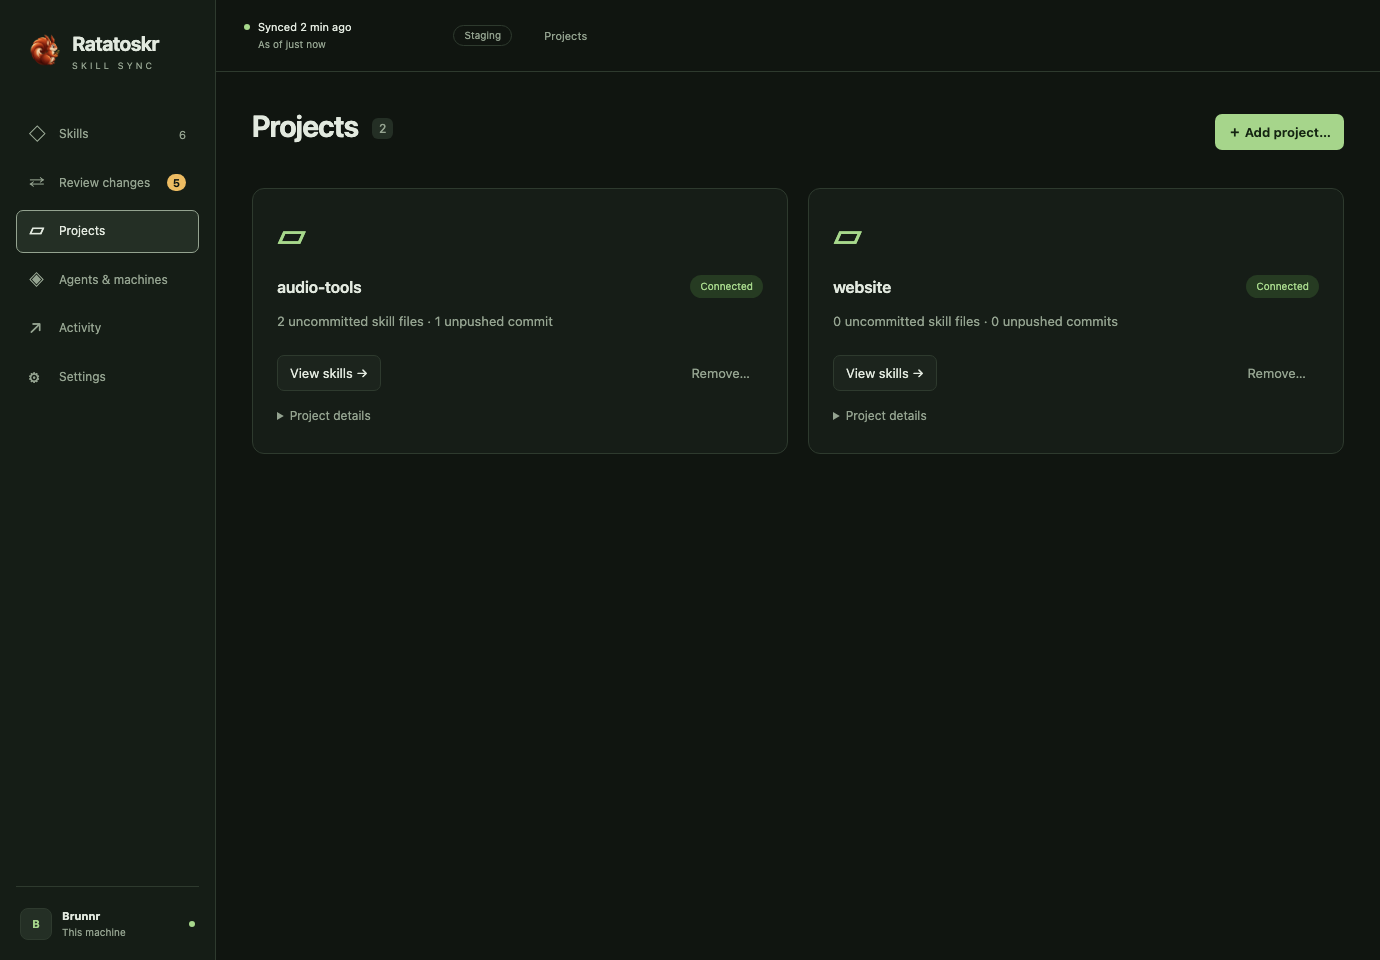
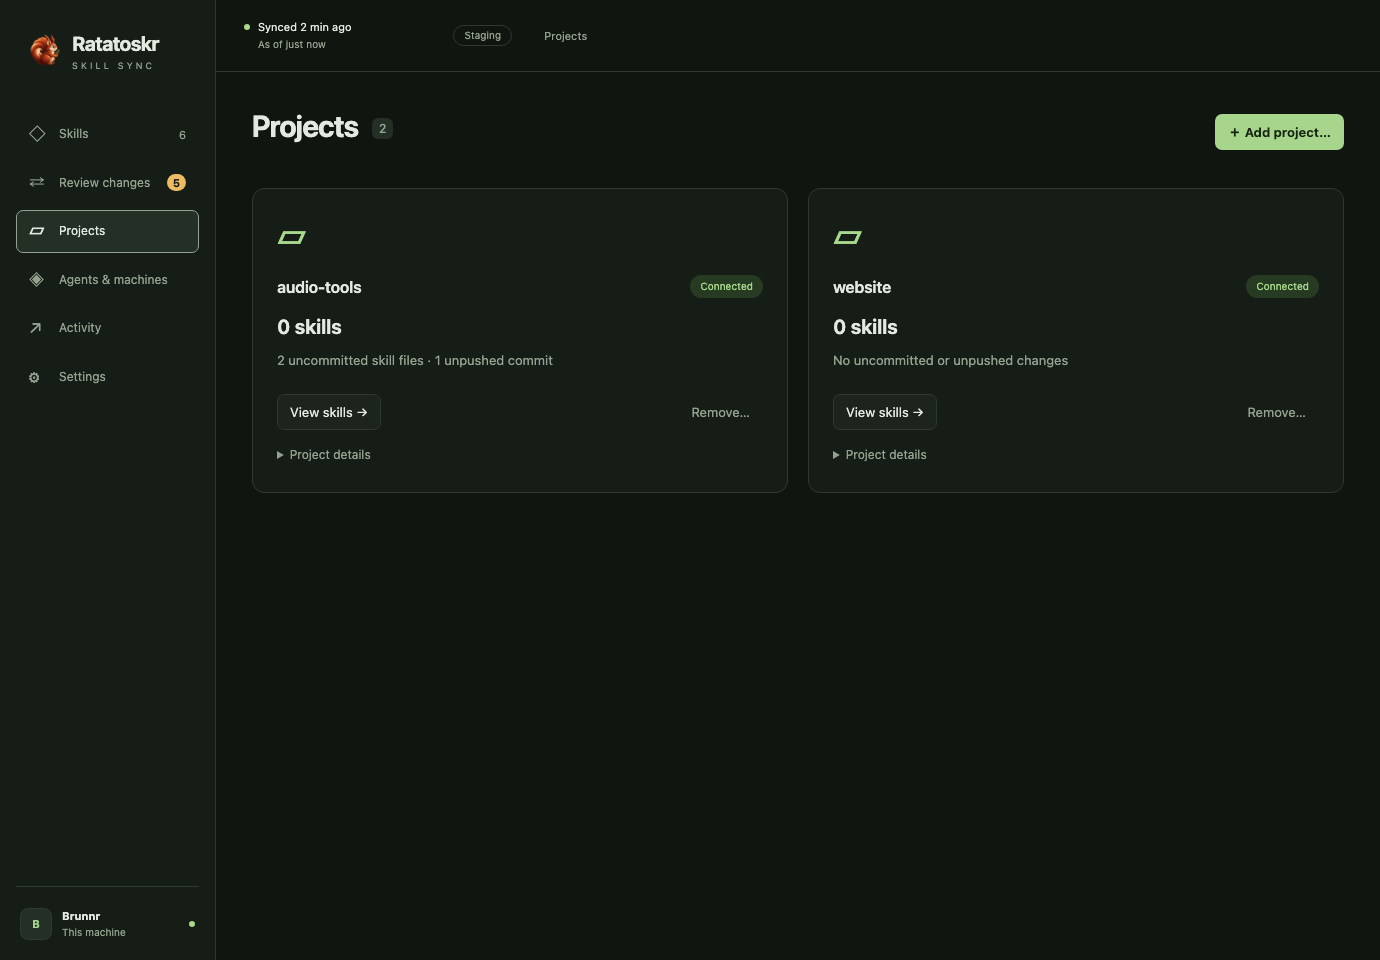
[Codex][Sol 6.1] Show project skill totals clearly for v0.2.15

diff --git a/desktop/e2e/projects.spec.ts b/desktop/e2e/projects.spec.ts
@@ -1,0 +1,67 @@
+import { test, expect } from "@playwright/test";
+import { fixtureIPC, projectWorkspace } from "../tests/fixture";
+import { installFixture } from "./helpers";
+
+test("project cards show skill totals and View skills opens the matching count", async ({
+  page,
+}, testInfo) => {
+  const workspace = projectWorkspace();
+  await installFixture(page, (cmd, args) =>
+    cmd === "read_workspace" ? workspace : fixtureIPC(cmd, args),
+  );
+  await page.goto("/");
+  await page
+    .getByRole("navigation")
+    .getByRole("button", { name: /Projects/ })
+    .click();
+  const card = page
+    .getByRole("article")
+    .filter({ has: page.getByRole("heading", { name: "audio-tools" }) });
+  await expect(card.getByText("2 skills", { exact: true })).toBeVisible();
+  await expect(
+    card.getByText("No uncommitted or unpushed changes"),
+  ).toBeVisible();
+  const empty = page
+    .getByRole("article")
+    .filter({ has: page.getByRole("heading", { name: "website" }) });
+  await expect(empty.getByText("0 skills", { exact: true })).toBeVisible();
+  await page.screenshot({ path: testInfo.outputPath("project-counts.png") });
+  await card.getByRole("button", { name: "View skills →" }).click();
+  await expect(
+    page.getByRole("heading", { name: "Skills 2", exact: true }),
+  ).toBeVisible();
+  await expect(page.getByLabel("Skill scope")).toHaveValue(
+    workspace.plan.projects[0].root,
+  );
+  await expect(page.locator(".skill-row")).toHaveCount(2);
+  await expect(
+    page.getByRole("button", { name: /archive-audio Disabled/ }),
+  ).toBeVisible();
+  await page.getByLabel("Search skills").fill("mix");
+  await expect(
+    page.getByRole("heading", { name: "Skills 1", exact: true }),
+  ).toBeVisible();
+});
+
+test("a failed skill read never masquerades as an empty project or library", async ({
+  page,
+}) => {
+  const workspace = projectWorkspace();
+  workspace.skills = [];
+  workspace.skills_error =
+    "Cannot list source skills: source folder is unreadable";
+  await installFixture(page, (cmd, args) =>
+    cmd === "read_workspace" ? workspace : fixtureIPC(cmd, args),
+  );
+  await page.goto("/");
+  await expect(
+    page.getByRole("heading", { name: "Skills", exact: true }),
+  ).toBeVisible();
+  await expect(page.getByRole("alert")).toContainText(workspace.skills_error);
+  await page
+    .getByRole("navigation")
+    .getByRole("button", { name: /Projects/ })
+    .click();
+  await expect(page.getByText("Skill count unavailable")).toHaveCount(2);
+  await expect(page.getByText("0 skills", { exact: true })).toHaveCount(0);
+});

diff --git a/desktop/src/views/Projects.test.ts b/desktop/src/views/Projects.test.ts
@@ -1,0 +1,62 @@
+import { render, screen, fireEvent, within } from "@testing-library/svelte";
+import { test, expect, vi } from "vitest";
+import Projects from "./Projects.svelte";
+import { projectWorkspace } from "../../tests/fixture";
+
+const callbacks = () => ({
+  onupdate: vi.fn(),
+  onerror: vi.fn(),
+  onbrowse: vi.fn(),
+  ondirty: vi.fn(),
+});
+
+test.each([0, 1, 2])(
+  "shows %i project skills independently of Git change counts",
+  async (count) => {
+    const workspace = projectWorkspace();
+    const project = workspace.plan.projects[0];
+    workspace.skills = workspace.skills
+      .filter((s) => s.project === project.root)
+      .slice(0, count);
+    // Include an unrelated global skill with the same name to catch over-counts.
+    workspace.skills.push({ name: "mix-audio", enabled: true, project: null });
+    const props = callbacks();
+    render(Projects, { workspace, ...props });
+    const card = within(
+      screen.getByRole("heading", { name: "audio-tools" }).closest("article")!,
+    );
+    expect(
+      card.getByText(`${count} ${count === 1 ? "skill" : "skills"}`, {
+        exact: true,
+      }),
+    ).toBeVisible();
+    expect(card.getByText("No uncommitted or unpushed changes")).toBeVisible();
+    expect(card.queryByText(/0 uncommitted/)).toBeNull();
+    await fireEvent.click(card.getByRole("button", { name: "View skills →" }));
+    expect(props.onbrowse).toHaveBeenCalledWith(project.root);
+  },
+);
+
+test("keeps unpublished changes distinct from the skill total", () => {
+  const workspace = projectWorkspace();
+  workspace.plan.projects[0].changed_files = 3;
+  workspace.plan.projects[0].outgoing_commits = null;
+  render(Projects, { workspace, ...callbacks() });
+  expect(screen.getByText("2 skills", { exact: true })).toBeVisible();
+  expect(
+    screen.getByText(/3 uncommitted skill files · Unknown unpushed commits/),
+  ).toBeVisible();
+});
+
+test("reports an unavailable list instead of claiming zero skills", () => {
+  const workspace = projectWorkspace();
+  workspace.skills = [];
+  workspace.skills_error =
+    "Cannot list source skills: source folder is unreadable";
+  render(Projects, { workspace, ...callbacks() });
+  expect(screen.getAllByText("Skill count unavailable")).toHaveLength(2);
+  expect(screen.queryByText("0 skills", { exact: true })).toBeNull();
+  expect(screen.getAllByRole("alert")[0]).toHaveTextContent(
+    workspace.skills_error,
+  );
+});

diff --git a/desktop/src/views/Projects.svelte b/desktop/src/views/Projects.svelte
@@ -62,23 +62,43 @@
     <button class="primary" onclick={choose}>＋ Add project…</button>
   </div>
   <div class="project-grid">
-    {#each workspace.plan.projects as project}<article
-        class="panel project-card"
-      >
+    {#each workspace.plan.projects as project}
+      {@const skillCount = workspace.skills.filter(
+        (s) => s.project === project.root,
+      ).length}
+      <article class="panel project-card">
         <div class="project-symbol">▱</div>
         <div class="section-heading">
           <h2>{basename(project.root)}</h2>
-          <span class="status-pill {project.error ? 'warning' : 'success'}"
-            >{project.error ? "Needs attention" : "Connected"}</span
+          <span
+            class="status-pill {project.error || workspace.skills_error
+              ? 'warning'
+              : 'success'}"
+            >{project.error || workspace.skills_error
+              ? "Needs attention"
+              : "Connected"}</span
           >
         </div>
+        <p class="project-skill-count">
+          {workspace.skills_error
+            ? "Skill count unavailable"
+            : `${skillCount} ${skillCount === 1 ? "skill" : "skills"}`}
+        </p>
+        {#if workspace.skills_error}<p role="alert" class="error-message">
+            {workspace.skills_error}
+          </p>{/if}
         <p class="muted">
-          {project.changed_files} uncommitted skill {project.changed_files === 1
-            ? "file"
-            : "files"} · {project.outgoing_commits ?? "Unknown"} unpushed {project.outgoing_commits ===
-          1
-            ? "commit"
-            : "commits"}
+          {#if project.changed_files === 0 && project.outgoing_commits === 0}
+            No uncommitted or unpushed changes
+          {:else}
+            {project.changed_files} uncommitted skill {project.changed_files ===
+            1
+              ? "file"
+              : "files"} · {project.outgoing_commits ?? "Unknown"} unpushed {project.outgoing_commits ===
+            1
+              ? "commit"
+              : "commits"}
+          {/if}
         </p>
         {#if project.error}<p role="alert" class="error-message">
             {project.error}

diff --git a/desktop/src/views/Library.svelte b/desktop/src/views/Library.svelte
@@ -88,7 +88,11 @@
 <section class="page">
   <div class="page-heading">
     <div>
-      <h1>Skills <span class="count">{workspace.skills.length}</span></h1>
+      <h1>
+        Skills{#if !workspace.skills_error}{" "}<span class="count"
+            >{visible.length}</span
+          >{/if}
+      </h1>
     </div>
     <button class="primary" onclick={() => (creating = true)}
       >＋ New skill</button
@@ -112,6 +116,9 @@
       ></label
     >
   </div>
+  {#if workspace.skills_error}<p role="alert" class="error-message">
+      {workspace.skills_error}
+    </p>{/if}
   {#if statusError}<p role="alert" class="error-message">
       Target status unavailable: {statusError}
     </p>{/if}

diff --git a/desktop/tests/fixture.ts b/desktop/tests/fixture.ts
@@ -43,6 +43,18 @@ export const fixture = oracle("fixture") as {
   statuses: Record<string, Record<string, boolean>>;
   local_settings: LocalSettings;
 };
+
+export function projectWorkspace(): Snapshot {
+  const workspace = structuredClone(fixture.workspace);
+  const project = workspace.plan.projects[0];
+  project.changed_files = 0;
+  project.outgoing_commits = 0;
+  workspace.skills.push(
+    { name: "mix-audio", enabled: true, project: project.root },
+    { name: "archive-audio", enabled: false, project: project.root },
+  );
+  return workspace;
+}
 export function fixtureIPC(
   cmd: string,
   args: Record<string, unknown> = {},

diff --git a/desktop/src/App.svelte b/desktop/src/App.svelte
@@ -284,7 +284,7 @@
               dirty = false;
             })}
           ><span class="nav-icon">{item.icon}</span
-          >{item.name}{#if item.name === "Skills" && workspace}<span
+          >{item.name}{#if item.name === "Skills" && workspace && !workspace.skills_error}<span
               class="nav-count">{workspace.skills.length}</span
             >{:else if item.name === "Review changes" && workspace && reviewSummary(workspace).total}<span
               class="nav-count review-count"

diff --git a/desktop/e2e/screenshots.spec.ts b/desktop/e2e/screenshots.spec.ts
@@ -1,6 +1,6 @@
 import { test, expect } from "@playwright/test";
 import { mkdirSync } from "node:fs";
-import { fixture, fixtureIPC } from "../tests/fixture";
+import { fixtureIPC } from "../tests/fixture";
 import { installFixture } from "./helpers";
 test("all main screens", async ({ page }) => {
   await page.emulateMedia({ reducedMotion: "reduce" });

diff --git a/desktop/src/style.css b/desktop/src/style.css
@@ -1169,6 +1169,11 @@ nav button.active {
 .project-card {
   margin: 0;
 }
+.project-skill-count {
+  font-size: 20px;
+  font-weight: 650;
+  margin: 8px 0;
+}
 .project-symbol {
   font-size: 32px;
   color: var(--accent);

diff --git a/desktop/src/api.ts b/desktop/src/api.ts
@@ -129,6 +129,7 @@ export interface Legacy {
 export interface Snapshot {
   plan: Plan;
   skills: Skill[];
+  skills_error: string | null;
   helper: string | null;
   helper_error: string | null;
   jobs: Jobs;

diff --git a/crates/ratatoskr-core/examples/desktop_fixture.rs b/crates/ratatoskr-core/examples/desktop_fixture.rs
@@ -211,7 +211,7 @@ fn main() -> anyhow::Result<()> {
             let mut plan = serde_json::to_value(core::plan(&settings)?)?;
             plan["projects"] = json!([{"root":"/projects/audio-tools","changed_files":2,"outgoing_commits":1,"upstream":"origin/main","error":null,"source":"/projects/audio-tools/.ratatoskr"},{"root":"/projects/website","changed_files":0,"outgoing_commits":0,"upstream":"origin/main","error":null,"source":"/projects/website/.ratatoskr"}]);
             let skills = core::list_skills(&settings)?;
-            json!({"workspace":{"plan":plan,"skills":skills,"helper":"/Applications/Ratatoskr.app/Contents/MacOS/ratatoskr","helper_error":null,"jobs":{"last_run":{"started_at":1792173480_u64,"finished_at":1792173490_u64,"error":null},"current_error":null,"helper_update_error":null,"desktop_update_error":null,"log":"18:35:00  Checking content repository\n18:35:01  Source unchanged\n18:35:02  Rendered 5 skills for 2 agents\n18:35:03  Sync completed successfully"},"presets":core::agent_presets(),"preview_targets":core::preview_targets(&settings)?,"source_files":core::source_files(&settings)?,"updates":{"automatic":true,"time":"02:00","override_active":false,"endpoint":"https://github.com/oana-ffg/ratatoskr-skill-sync/releases/latest/download/latest.json"},"legacy":[{"name":"aws-project-migration","path":"/fixture-home/.codex/skills/aws-project-migration","destination":"/fixture-home/.agents/skills","files":[{"path":"SKILL.md","sha256":core::read_skill(&settings,None,"aws-project-migration")?.markdown_hash,"executable":false}]}]},"document":core::read_skill(&settings,None,"recordings")?,"info":core::editor_view(md,meta)?,"analysis":core::analyze_skill(&settings,"recordings",md,"brunnr","codex")?,"values":core::value_options(&settings,"brunnr","codex")?,"resources":core::skill_resources(&settings,None,"recordings")?,"statuses":core::skill_target_statuses(&settings)?,"local_settings":settings})
+            json!({"workspace":{"plan":plan,"skills":skills,"skills_error":null,"helper":"/Applications/Ratatoskr.app/Contents/MacOS/ratatoskr","helper_error":null,"jobs":{"last_run":{"started_at":1792173480_u64,"finished_at":1792173490_u64,"error":null},"current_error":null,"helper_update_error":null,"desktop_update_error":null,"log":"18:35:00  Checking content repository\n18:35:01  Source unchanged\n18:35:02  Rendered 5 skills for 2 agents\n18:35:03  Sync completed successfully"},"presets":core::agent_presets(),"preview_targets":core::preview_targets(&settings)?,"source_files":core::source_files(&settings)?,"updates":{"automatic":true,"time":"02:00","override_active":false,"endpoint":"https://github.com/oana-ffg/ratatoskr-skill-sync/releases/latest/download/latest.json"},"legacy":[{"name":"aws-project-migration","path":"/fixture-home/.codex/skills/aws-project-migration","destination":"/fixture-home/.agents/skills","files":[{"path":"SKILL.md","sha256":core::read_skill(&settings,None,"aws-project-migration")?.markdown_hash,"executable":false}]}]},"document":core::read_skill(&settings,None,"recordings")?,"info":core::editor_view(md,meta)?,"analysis":core::analyze_skill(&settings,"recordings",md,"brunnr","codex")?,"values":core::value_options(&settings,"brunnr","codex")?,"resources":core::skill_resources(&settings,None,"recordings")?,"statuses":core::skill_target_statuses(&settings)?,"local_settings":settings})
         }
         other => anyhow::bail!("Unsupported fixture command: {other}"),
     };

diff --git a/desktop/src-tauri/src/commands.rs b/desktop/src-tauri/src/commands.rs
@@ -38,6 +38,7 @@ pub(crate) struct Snapshot {
     config_text: String,
     plan: Plan,
     skills: Vec<SkillEntry>,
+    skills_error: Option<String>,
     helper: Option<PathBuf>,
     helper_error: Option<String>,
     jobs: core::JobStatus,
@@ -90,11 +91,14 @@ fn snapshot() -> Reply<Snapshot> {
             .map(|root| core::project_status(root))
             .collect(),
     });
-    let skills = core::list_skills(&settings).unwrap_or_else(|error| {
-        plan.conflicts
-            .push(format!("Cannot list source skills: {error:#}"));
-        vec![]
-    });
+    let (skills, skills_error) = match core::list_skills(&settings) {
+        Ok(skills) => (skills, None),
+        Err(error) => {
+            let message = format!("Cannot list source skills: {error:#}");
+            plan.conflicts.push(message.clone());
+            (vec![], Some(message))
+        }
+    };
     let source_files = core::source_files(&settings).unwrap_or_else(|error| {
         plan.conflicts
             .push(format!("Cannot list source configuration: {error:#}"));
@@ -117,6 +121,7 @@ fn snapshot() -> Reply<Snapshot> {
         config_path: path,
         plan,
         skills,
+        skills_error,
         helper: helper.as_ref().ok().cloned(),
         helper_error: helper.err().map(|e| format!("{e:#}")),
         jobs: core::job_status(&settings).map_err(|e| format!("{e:#}"))?,

diff --git a/docs/desktop-ui.md b/docs/desktop-ui.md
@@ -7,7 +7,7 @@ The old single-template vanilla TypeScript UI has been replaced by Svelte 5 comp
 1. **Skills:** search the library, select a scope, enable/disable a skill, or create one. Target dots mean inclusion across configured profiles for that agent; they are not a claim that every machine is currently online or synced.
 2. **Skill editor:** edit the description, targeting chips and Markdown. The toolbar formats text, wraps selections in conditions, and inserts machine values. Every line inside a condition has a coloured band. Each condition header can edit or remove its markers while keeping the body. A warning marks sections matching no enabled target. Use the agent × machine selectors to compare Rust-rendered output. Installation details show the actual destination; source and destination are never written during preview.
 3. **Review changes:** expand a skill × agent group to inspect dimmed context and word-level side-by-side diffs (source on the left), resolve installed edits with a preview and backup, then Apply the exact reviewed plan. Edit source opens the mapped source, including variants, and uses the core's validated source-edit resolution. Copy-back stays disabled when templates make reversal ambiguous.
-4. **Projects:** pick a folder, select its relative content folder and monitor source-only Git status. Removing monitoring preserves project files.
+4. **Projects:** pick a folder, select its relative content folder and monitor source-only Git status. Each card shows its source skill count, including disabled skills, separately from uncommitted files and unpushed commits. “View skills” opens that project's scope; the library count follows scope and search. An unreadable skill list is reported as unavailable, never as zero. Removing monitoring preserves project files.
 5. **Agents & machines:** add a documented preset or custom agent, edit folders and instructions, and configure system, install mode, enabled agents, capabilities and named path values for each profile.
 6. **Activity:** inspect completion/result/errors, auto-detected helper, bounded logs and a previewed background schedule.
 7. **Settings:** configure signed nightly updates, login startup and ready-made alerts.
